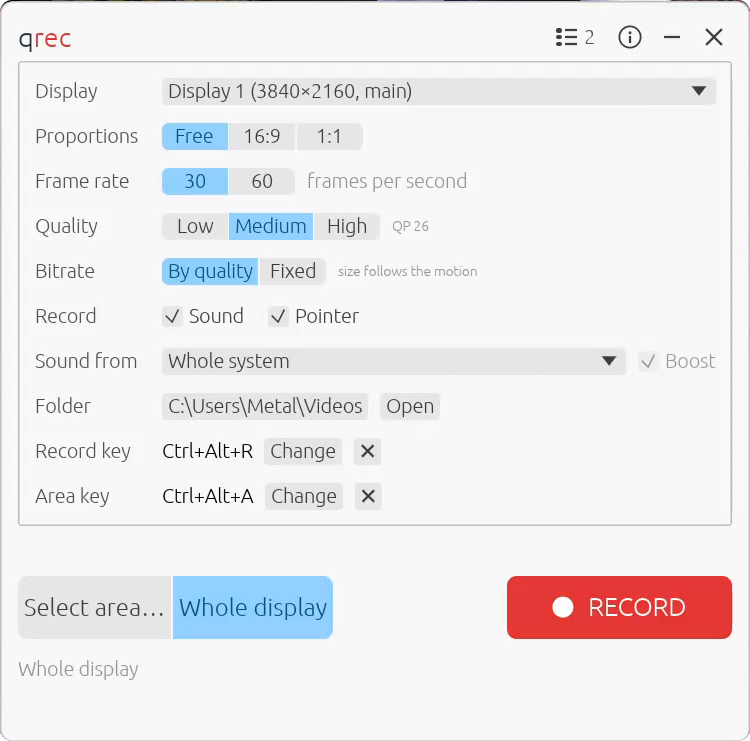
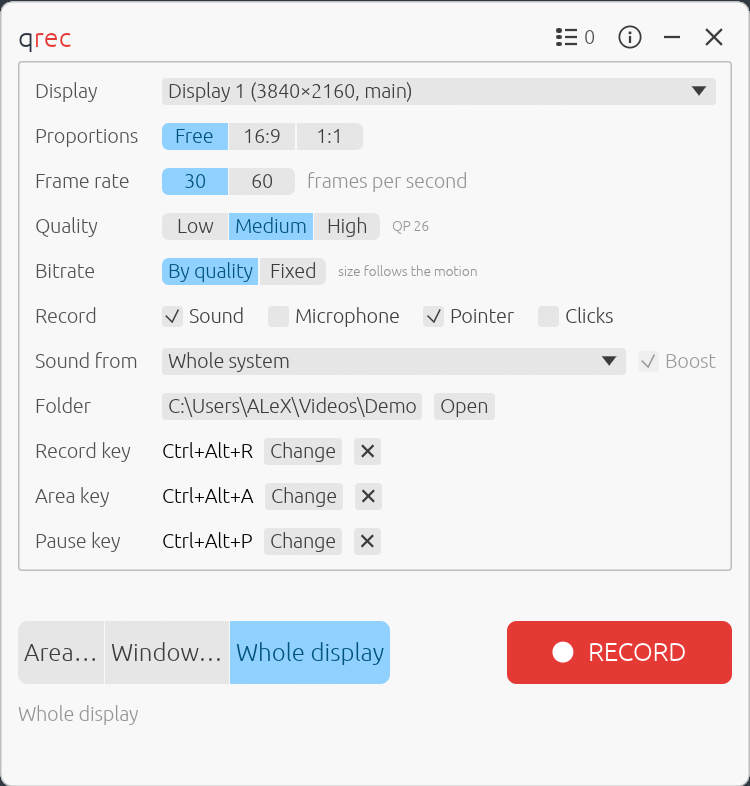
Version 0.3.0
The README shows the window of version 0.3.0: the microphone and the
clicks, the pause hotkey, and the Area…, Window… and Whole display
buttons.

diff --git a/README.ru.md b/README.ru.md
@@ -15,10 +15,10 @@
 qrec записывает прямоугольную область экрана или экран целиком в файл MP4: видео H.264, закодированное видеокартой, звук, который воспроизводит компьютер, в формате AAC, и указатель мыши. В окне находятся немногочисленные настройки, глобальная горячая клавиша начинает и останавливает запись из любого окна, а другая открывает выделение области.
 
 <p align="center">
-  <img src="images/screenshot.png" width="560" alt="Окно qrec: экран, пропорции, частота кадров, качество, битрейт, звук и указатель, источник звука, папка, две горячие клавиши, кнопки области и кнопка «Запись»">
+  <img src="images/screenshot.png" width="560" alt="Окно qrec: экран, пропорции, частота кадров, качество, битрейт, звук, микрофон, указатель и щелчки, источник звука, папка, три горячие клавиши, кнопки «Область…», «Окно…» и «Весь экран» и кнопка «Запись»">
 </p>
 
-*Окно версии 0.2.0.*
+*Окно версии 0.3.0.*
 
 ## Возможности
 

diff --git a/README.md b/README.md
@@ -15,10 +15,10 @@
 qrec records a rectangle of the screen, or a whole display, to an MP4 file: H.264 video encoded by the graphics card, the sound the computer plays as AAC, and the pointer. The window holds the few settings there are, a global hotkey starts and stops the recording from anywhere, and another one opens the area selection.
 
 <p align="center">
-  <img src="images/screenshot.png" width="560" alt="The qrec window: display, proportions, frame rate, quality, bitrate, sound and pointer, the sound source, folder, the two hotkeys, the area buttons and the Record button">
+  <img src="images/screenshot.png" width="560" alt="The qrec window: display, proportions, frame rate, quality, bitrate, sound, microphone, pointer and clicks, the sound source, folder, the three hotkeys, the Area…, Window… and Whole display buttons and the Record button">
 </p>
 
-*The window of version 0.2.0.*
+*The window of version 0.3.0.*
 
 ## Features
 
